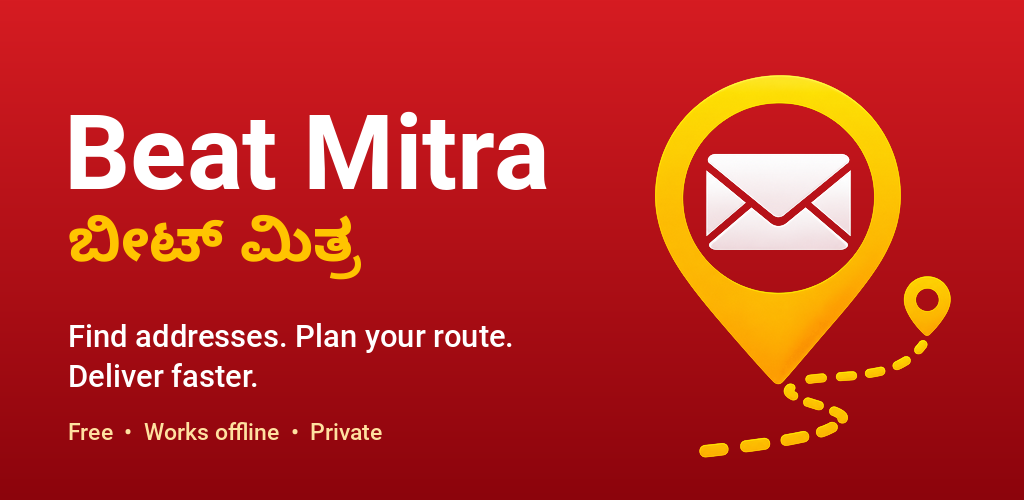
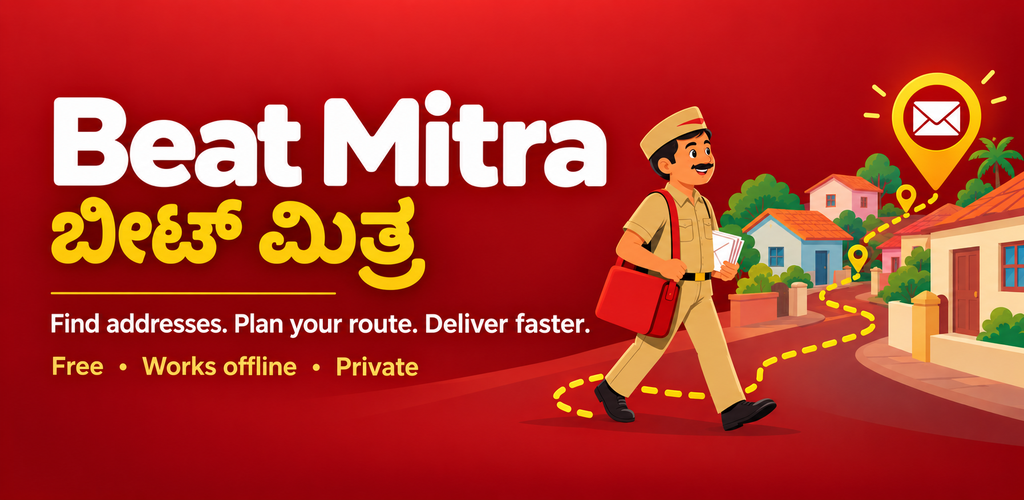
Use the illustrated feature graphic; keep the generated one as an alternative
Claude-Session: https://claude.ai/code/session_01KA1FPrc2ZZ9RfP925ko6q5

diff --git a/tool/make_feature_graphic.py b/tool/make_feature_graphic.py
@@ -1,4 +1,5 @@
-"""Builds the 1024 x 500 Play Store feature graphic from tool/logo-source.png.
+"""Builds a simple 1024 x 500 feature graphic (store/feature-graphic-simple.png;
+the one used on Play is store/feature-graphic.png) from tool/logo-source.png.
 Run: python3 tool/make_feature_graphic.py  (needs Pillow with raqm for Kannada)."""
 import os
 from PIL import Image, ImageDraw, ImageFont
@@ -43,6 +44,6 @@ d.text((x + 4, 318), 'Find addresses. Plan your route.', font=tag, fill=WHITE)
 d.text((x + 4, 358), 'Deliver faster.', font=tag, fill=WHITE)
 d.text((x + 4, 418), 'Free  •  Works offline  •  Private', font=font(medium, 23), fill=(255, 225, 160))
 
-out = os.path.join(ROOT, 'store', 'feature-graphic.png')
+out = os.path.join(ROOT, 'store', 'feature-graphic-simple.png')
 img.save(out, optimize=True)
 print('written', out, os.path.getsize(out), 'bytes')

diff --git a/store/README.md b/store/README.md
@@ -4,7 +4,8 @@
 - `listing/*.txt` – title, short and full description (en, kn, hi)
 - `screenshots/<lang>/*.png` – 1080×1920 phone screenshots (regenerate with
   `flutter test store/screenshots_test.dart`)
-- `feature-graphic.png` (1024×500), `icon-512.png`: made from `tool/logo-source.png`
+- `feature-graphic.png` (1024×500, illustrated banner); `icon-512.png` and
+  `feature-graphic-simple.png` are made from `tool/logo-source.png`
   with `python3 tool/make_icon.py` and `python3 tool/make_feature_graphic.py`
 - `fonts/` – Noto Sans Kannada / Devanagari (OFL) used only for screenshots
 - `photos/` – sample house drawings used only in screenshots
